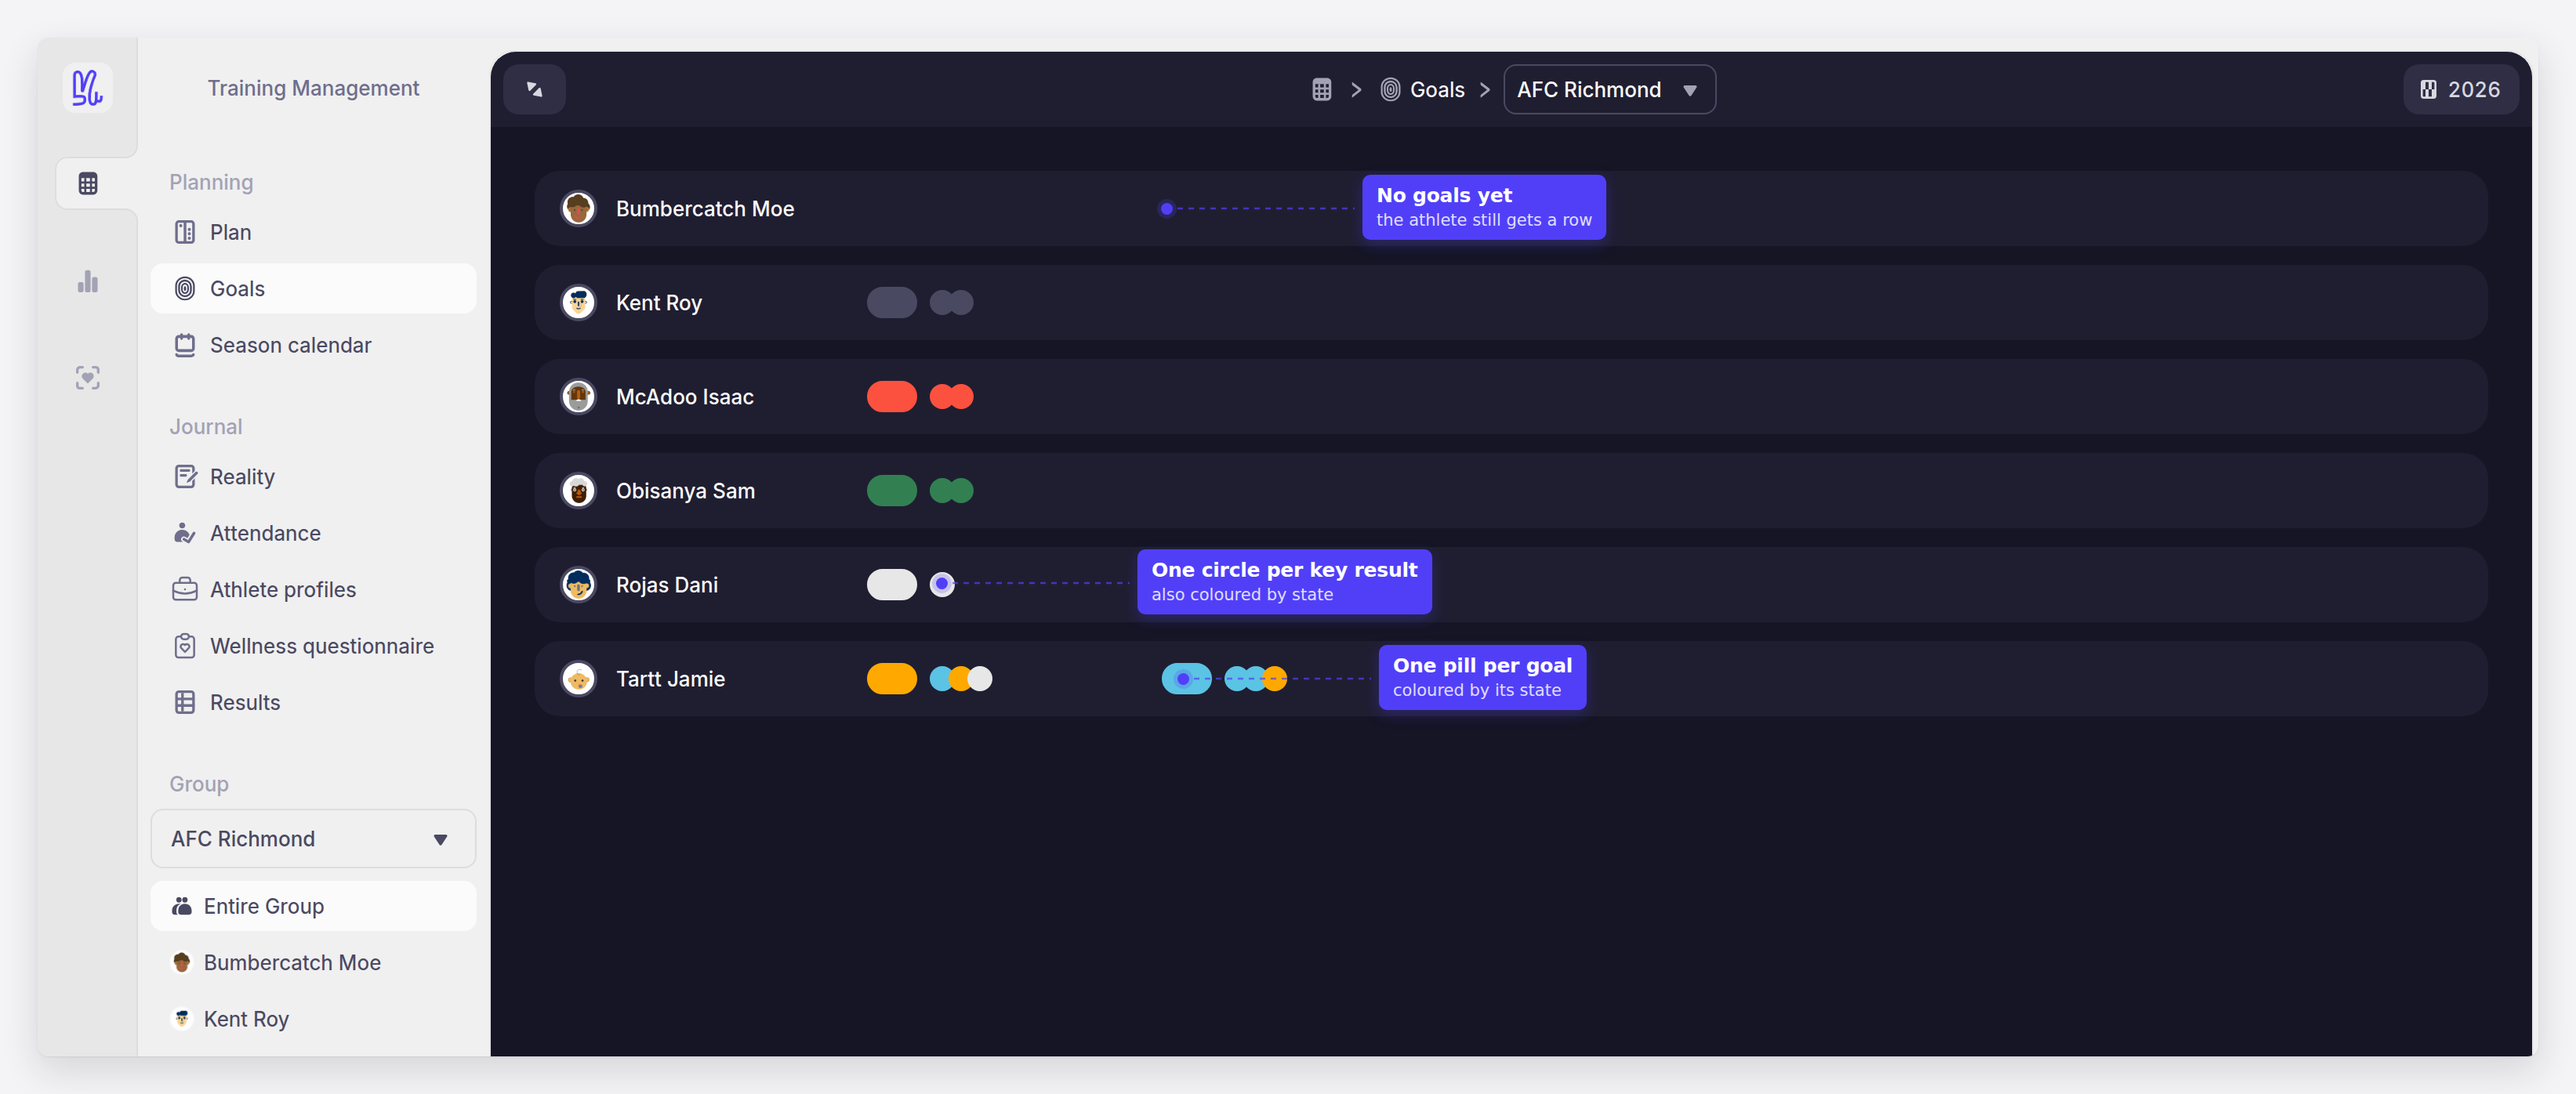
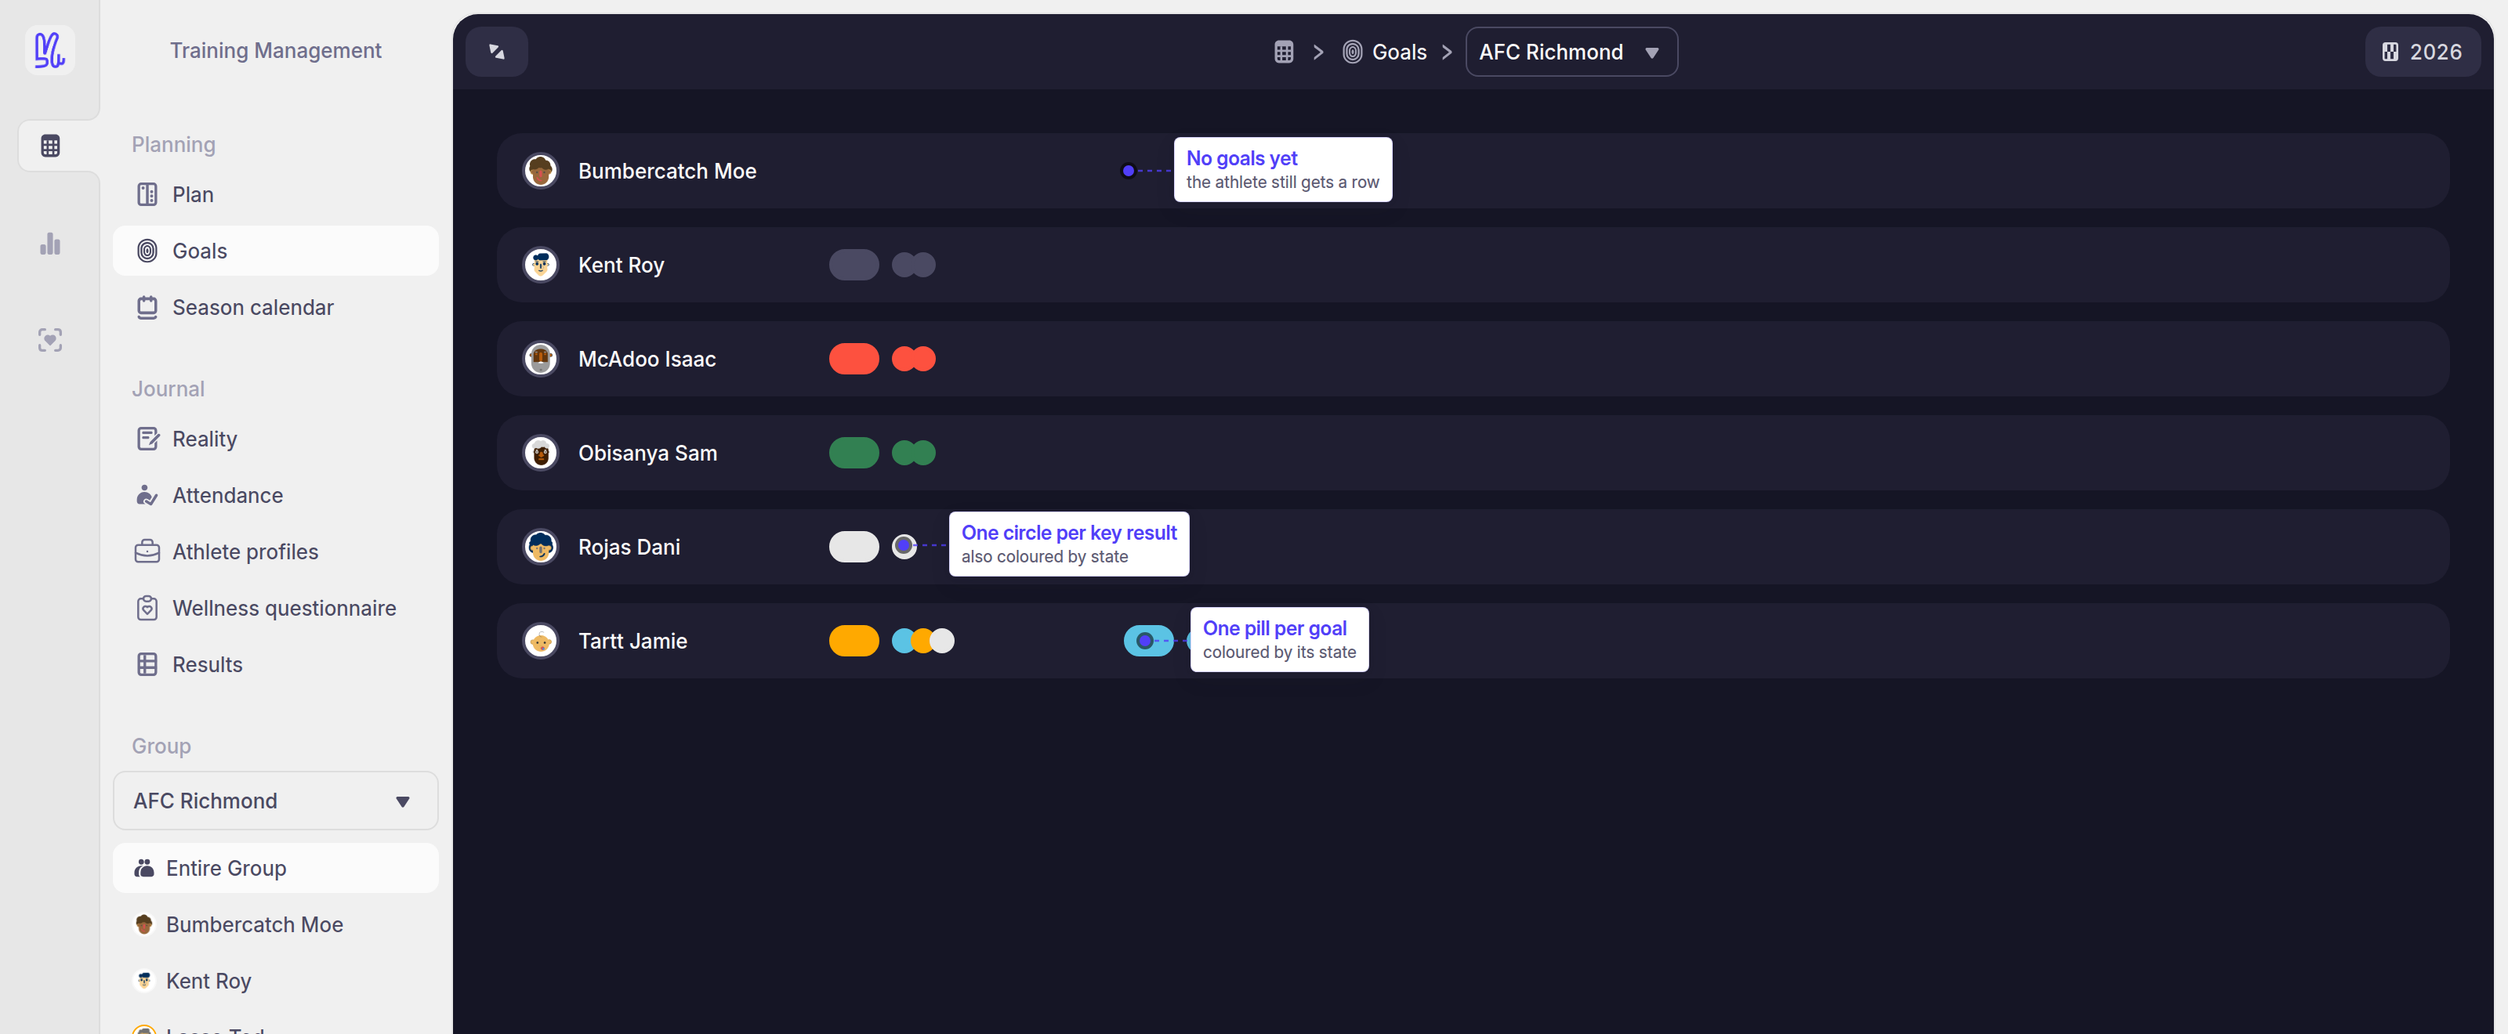
Goals: reshoot figures as app screenshots; document Export; bold to 600
Figures
- A figure is now the app: either the whole window or a zoom into the one
  region it is about, bleeding to all four edges. The previous set cut
  regions out of the window and floated them as rounded cards on a
  backdrop, which read as drawings of the UI rather than pictures of it.
- Callouts moved onto the screenshot, into the app's own empty space,
  anchored just outside the element so neither dot nor leader covers what
  it names. Set in Inter 600 / 450, in a lighter pill.
- goals-list and category-picker dropped their callouts — the season
  headers and the two-level menu already name themselves.
- New figure: export-options.

Export goals
- New section. The download icon above the goals list opens Export
  options; Export goals takes a season and generates the athlete's goals
  and key results. The rest of the menu (contract attachment, final
  evaluation, UNIS) is federation paperwork and per-team, so it's marked
  configurable rather than described.
- Enable focus mode stays undocumented, per the product owner.

Typography
- Inline bold was inheriting the browser default 700. Yarmill's type tops
  out at 590, so .ym-shell strong/b is now 600 site-wide.

The framing and callout rules are written into demo-cast.md so the next
pass doesn't have to be corrected again.

Claude-Session: https://claude.ai/code/session_01BcTgTxjwzSdWmEF7MFmzuM

diff --git a/site/app/theme/chrome.css b/site/app/theme/chrome.css
@@ -292,6 +292,13 @@
   color: var(--ym-ink);
   margin-top: 32px;
 }
+/* Inline bold. Without this, `**bold**` inherits the browser default (700),
+   which is heavier than Yarmill's type ever goes — headings top out at 590.
+   Inter Variable renders 600 exactly. */
+.ym-shell strong,
+.ym-shell b {
+  font-weight: 600;
+}
 /* Lead/description paragraph under H1 — normal body text (same size/colour as
    the prose body; not an oversized subtitle). Generous gap below the title and
    before the body for breathing room (Linear). */

diff --git a/docs-guide/visuals/demo-cast.md b/docs-guide/visuals/demo-cast.md
@@ -51,3 +51,23 @@ bug). They are not the source of the screenshot.
 
 Anything that is *not* a real capture keeps its
 `{/* NOTE(yarmill): … mockup … */}` marker in the MDX.
+
+## How a figure is framed
+
+Set 2026-09 by the product owner, after a first pass got this wrong.
+
+**A figure is the app.** Either the **whole application window**, or a **zoom into the one
+region** the figure is about — and it bleeds to all four edges of the image. Do **not** cut a
+region out of the window and float it as a rounded card with a drop shadow on a backdrop: it
+reads as a drawing of the UI rather than a picture of it.
+
+**Callouts sit on the screenshot**, in the app's own empty space — not in a margin band beside
+it. Keep them off the content they point at: anchor the dot just *outside* the element (past the
+end of a line of text, not on top of the icon), so neither the dot nor its leader line covers
+what the label is naming.
+
+**Callout type is Inter**, matching the docs: **600** for the label, **450** for the sub-line.
+Never the browser's default bold (700) — Yarmill's type tops out at 590.
+
+Some figures need no callouts at all. If the screen already names the thing — season-bucket
+headers, a two-level menu — let the caption do the work.

diff --git a/docs-guide/module-notes/goals.md b/docs-guide/module-notes/goals.md
@@ -536,8 +536,14 @@ first-hand from the running app and **supersedes** older statements in this file
 
 **Seasons offered:** single years **2020–2027**.
 
-**Also present, not yet in the user docs:** an **Enable focus mode** button and an
-**Export options** (download) button. Neither documented — decide whether they earn a mention.
+**Export options** (the download icon above the goals list) — a menu of four entries on this
+instance: *Export goals…* · *Export of the contract attachment…* · *Export for final
+evaluation…* · *Export UNIS…*. **Export goals** opens a dialog with a **Season** picker
+(e.g. "2026 (current season)") and **Export** / **Cancel**. The menu contents are
+per-team `[CONFIG]` — UNIS and the contract attachment are federation paperwork, not universal.
+Documented in the user docs as of 09/2026. `TODO(verify)`: what the other three actually produce.
+
+**Enable focus mode** (top bar) — deliberately **not** documented; product owner's call 09/2026.
 
 **Automation hooks** (stable `data-cy` values, for future screenshot/seed passes):
 `objective-title` · `objective-description` · `objective-status` · `objective-season` ·
